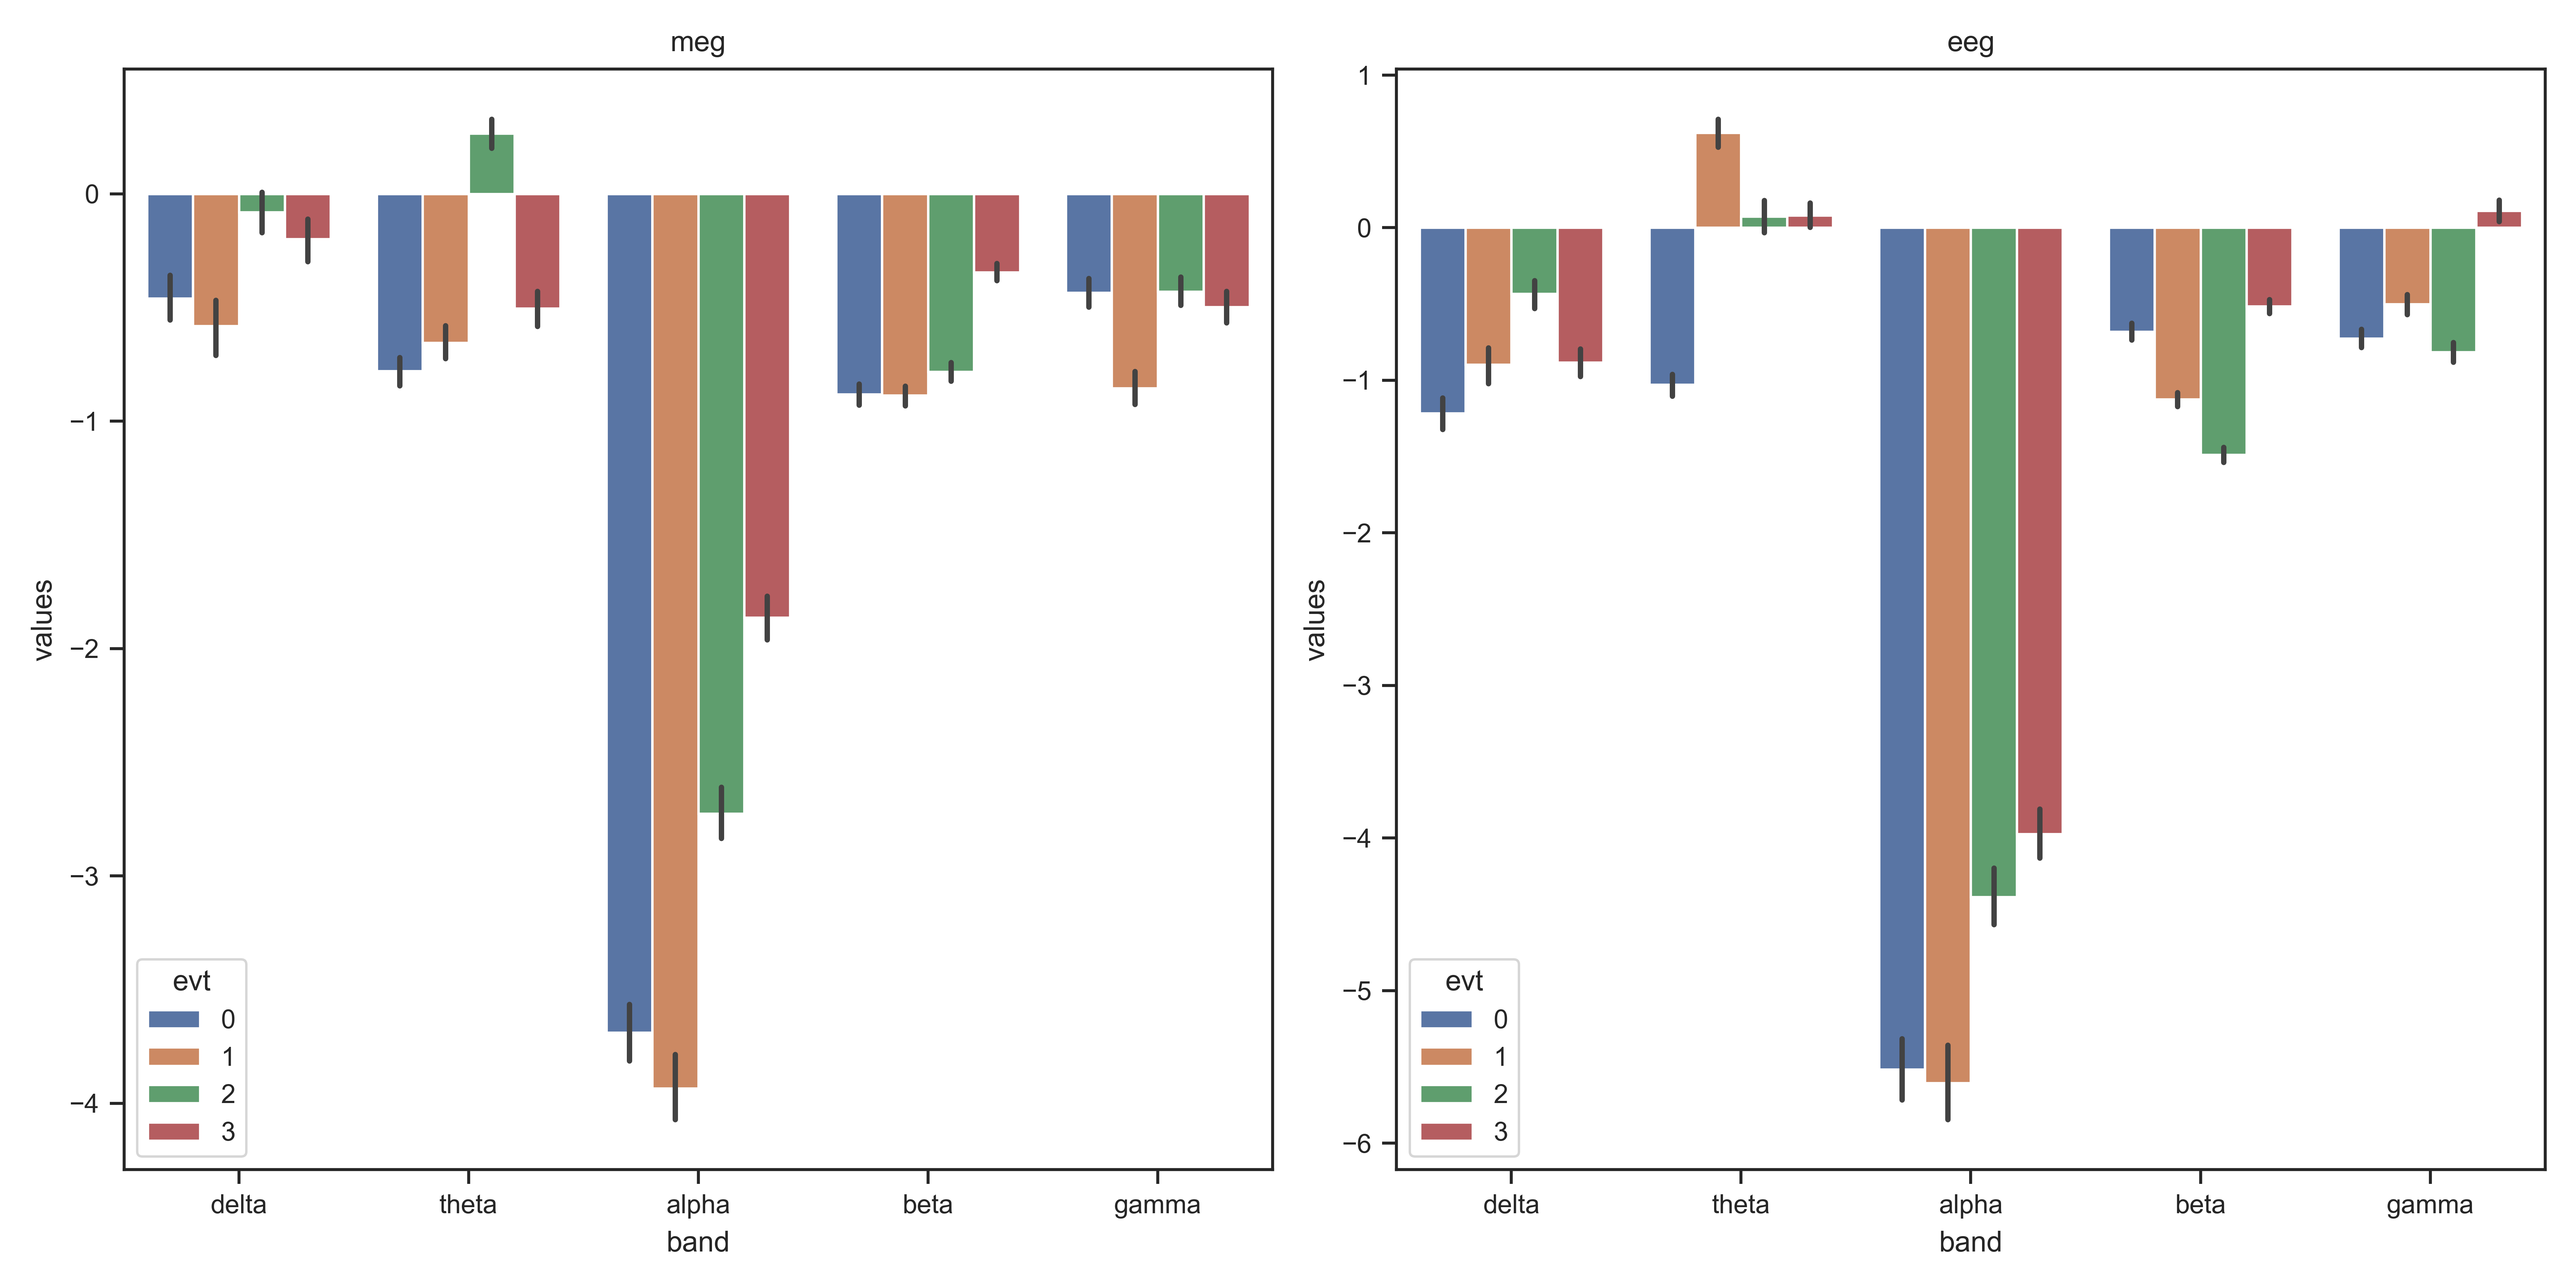
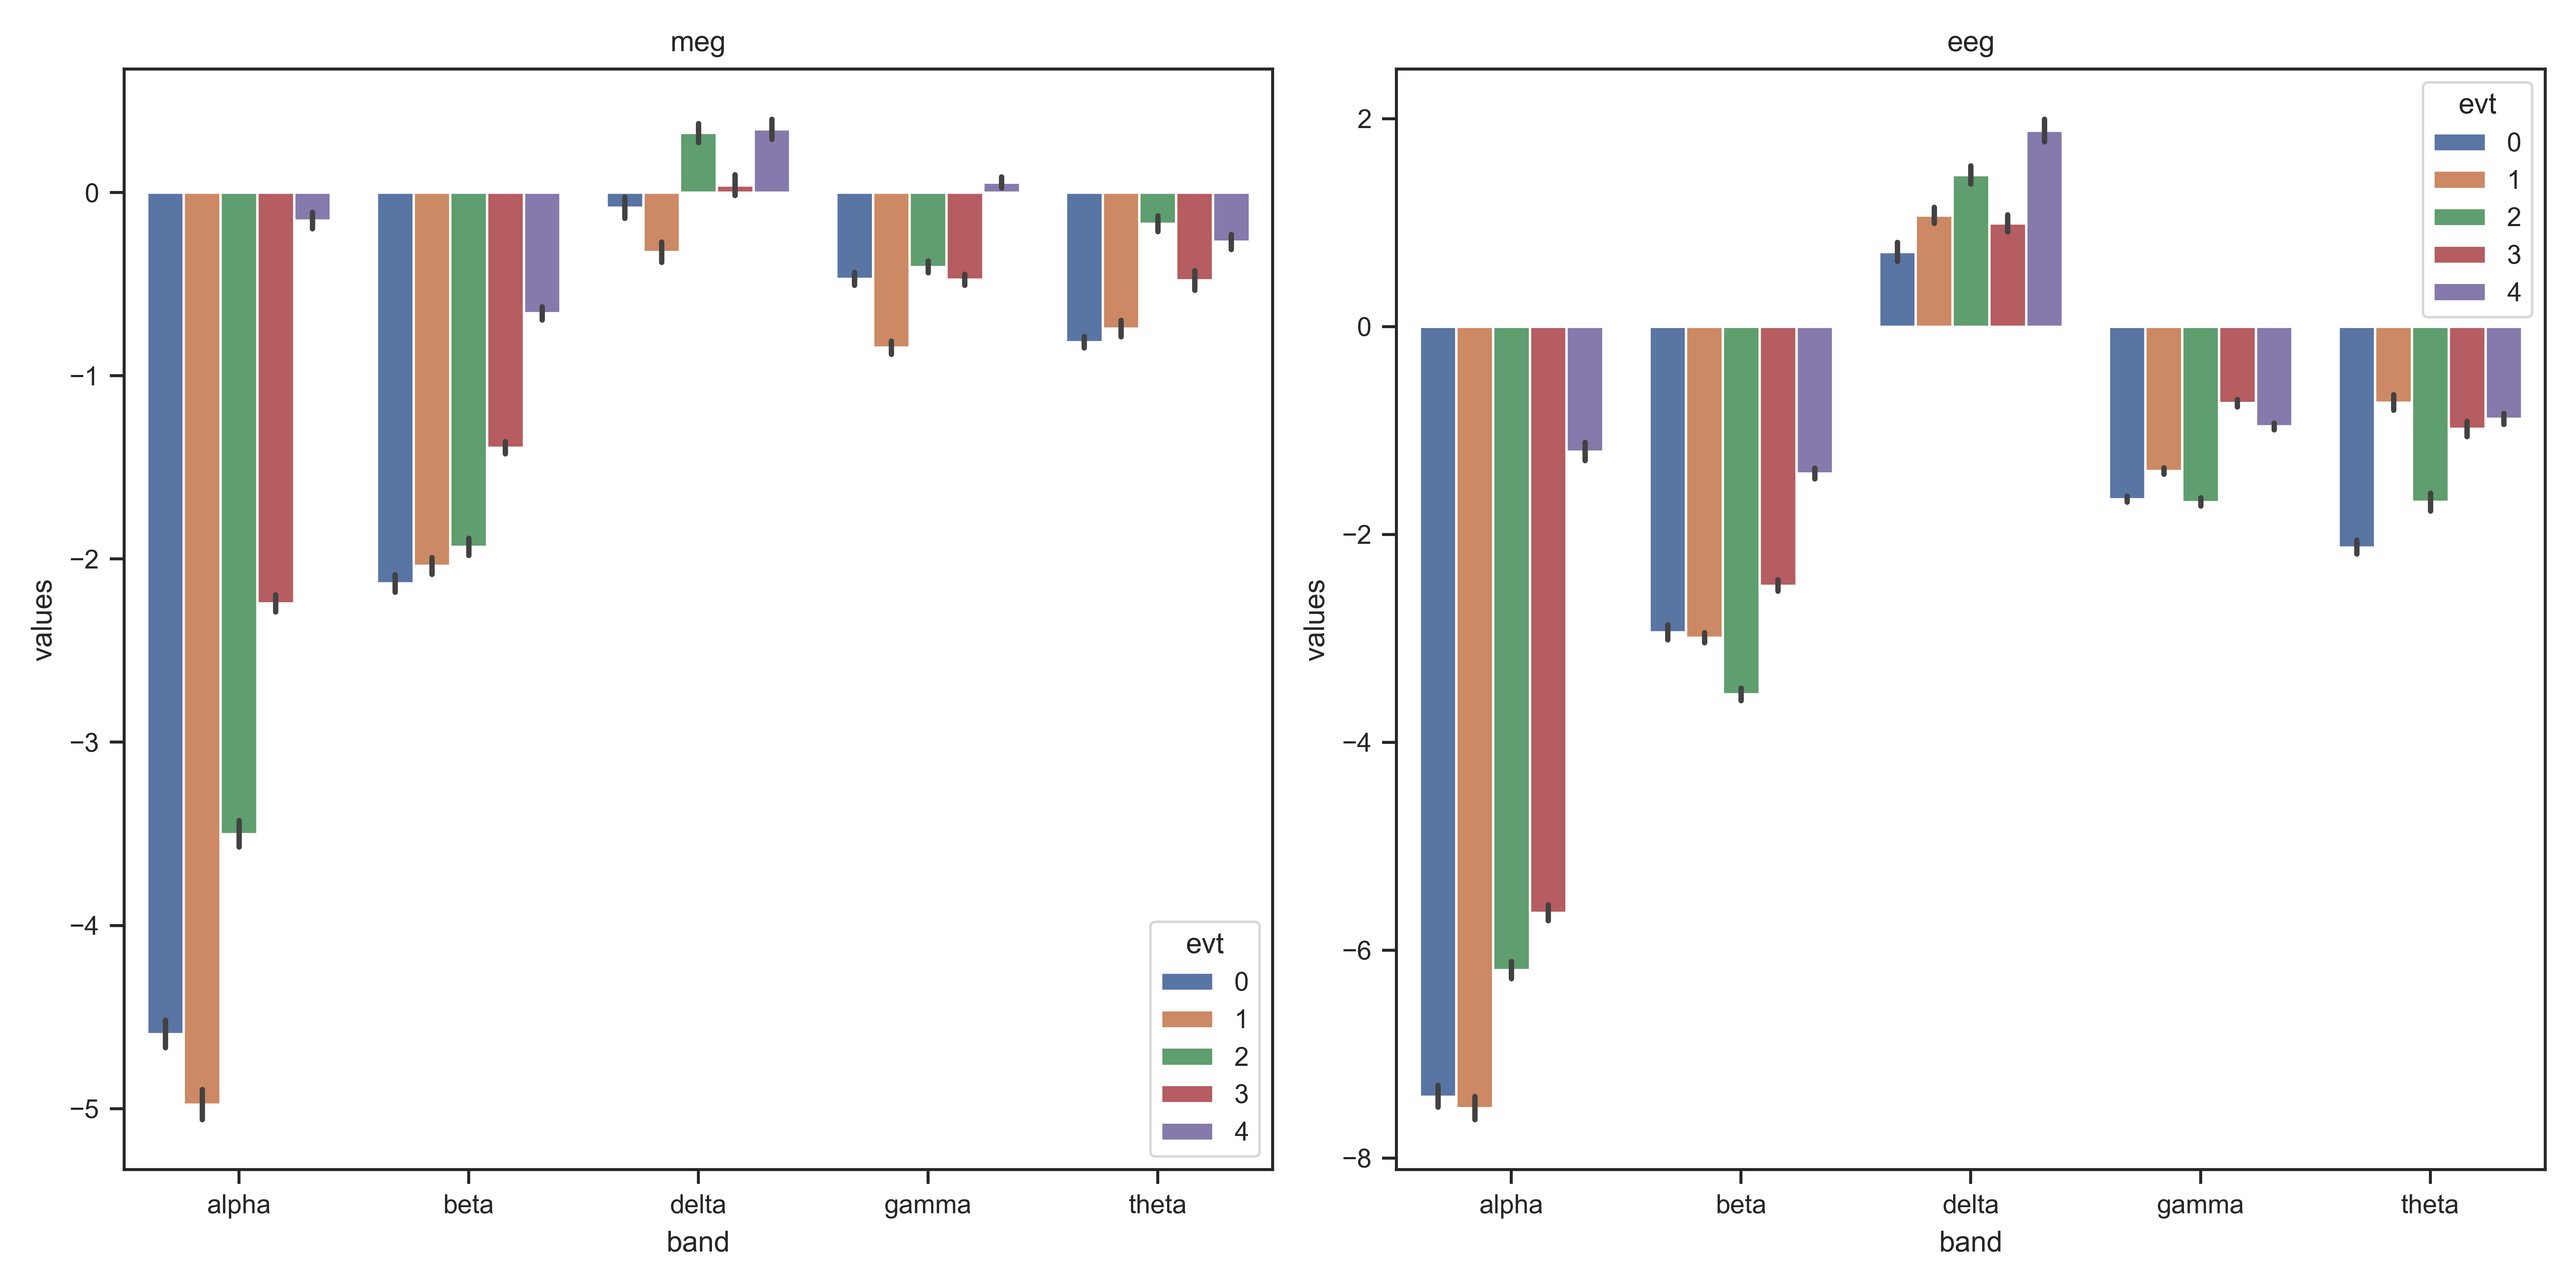
Refactor code structure for improved readability and maintainability

diff --git a/main.py b/main.py
@@ -18,6 +18,9 @@ Functions:
 
 # %% ---- 2026-01-18 ------------------------
 # Requirements and constants
+from itertools import combinations
+from scipy import stats
+import numpy as np
 import joblib
 import pandas as pd
 import seaborn as sns
@@ -31,7 +34,7 @@ from itertools import product
 DATA_DIR = Path('./data/erd.exampleChannels.detail')
 MODES = ['meg', 'eeg']
 CHANNELS = ['0-C3', '0-MLC42']
-EVENTS = ['0', '1', '2', '3']
+EVENTS = ['0', '1', '2', '3', '4']
 
 OUTPUT_DIR = Path('img')
 OUTPUT_DIR.mkdir(parents=True, exist_ok=True)
@@ -42,8 +45,8 @@ OUTPUT_DIR.mkdir(parents=True, exist_ok=True)
 
 # %% ---- 2026-01-18 ------------------------
 # Play ground
-mat0_meg = joblib.load(DATA_DIR / f'meg-4-0-MLC42.dump')['mat']
-mat0_eeg = joblib.load(DATA_DIR / f'eeg-4-0-C3.dump')['mat']
+# mat0_meg = joblib.load(DATA_DIR / f'meg-4-0-MLC42.dump')['mat']
+# mat0_eeg = joblib.load(DATA_DIR / f'eeg-4-0-C3.dump')['mat']
 
 dfs = []
 for evt, mode, channel in tqdm(product(EVENTS, MODES, CHANNELS)):
@@ -55,12 +58,12 @@ for evt, mode, channel in tqdm(product(EVENTS, MODES, CHANNELS)):
     freqs = obj['freqs']
     times = obj['times']
 
-    if mode == 'meg':
-        mat -= mat0_meg
-    elif mode == 'eeg':
-        mat -= mat0_eeg
-    else:
-        raise ValueError(f'Incorrect {mode=}')
+    # if mode == 'meg':
+    #     mat -= mat0_meg
+    # elif mode == 'eeg':
+    #     mat -= mat0_eeg
+    # else:
+    #     raise ValueError(f'Incorrect {mode=}')
 
     df = pd.DataFrame(mat, index=freqs, columns=times)
     # 使用 melt 重塑为三列
@@ -100,6 +103,153 @@ bands = {
 table['band'] = table['freqs'].map(
     lambda f: [k for k, v in bands.items() if f >= v[0] and f <= v[1]][0])
 print(table)
+
+# %%
+idx = (
+    table
+    .groupby(["times", "mode", "evt", "band"])["values"]
+    .idxmin()
+)
+
+table = table.loc[idx].reset_index(drop=True)
+print(table)
+
+# %%
+table = table[['times', 'values', 'mode', 'evt', 'band']]
+print(table)
+
+# %%
+
+# 假设您的数据已经在df中
+# 如果还没有读取数据，请先读取：
+# df = pd.read_csv('your_data.csv')
+
+# 创建存储结果的列表
+results = []
+df = table.copy()
+
+# 按band和mode分组
+for (band, mode), group_df in df.groupby(['band', 'mode']):
+    # 按evt分组数据
+    evt_groups = {evt: group_df[group_df['evt'] == evt]['values'].values
+                  for evt in sorted(group_df['evt'].unique())}
+
+    # 获取所有时间点
+    times = sorted(group_df['times'].unique())
+
+    # 对每个时间点进行T检验
+    for time_point in times:
+        # 提取该时间点每个evt的数据
+        time_data = {}
+        for evt in EVENTS:  # evt 0-4
+            evt_time_data = group_df[(group_df['evt'] == evt) &
+                                     (group_df['times'] == time_point)]
+            time_data[evt] = evt_time_data['values'].values
+
+        # 对所有evt对进行两两比较
+        for evt1, evt2 in combinations(EVENTS, 2):
+            if len(time_data[evt1]) > 0 and len(time_data[evt2]) > 0:
+                # 进行独立样本T检验
+                t_stat, p_value = stats.ttest_ind(
+                    time_data[evt1],
+                    time_data[evt2],
+                    equal_var=False  # Welch's t-test (不假设方差齐性)
+                )
+
+                # 计算效应量 (Cohen's d)
+                mean1, mean2 = np.mean(
+                    time_data[evt1]), np.mean(time_data[evt2])
+                std1, std2 = np.std(time_data[evt1], ddof=1), np.std(
+                    time_data[evt2], ddof=1)
+                n1, n2 = len(time_data[evt1]), len(time_data[evt2])
+
+                # 合并标准差
+                pooled_std = np.sqrt(
+                    ((n1-1)*std1**2 + (n2-1)*std2**2) / (n1 + n2 - 2))
+                cohens_d = (mean1 - mean2) / \
+                    pooled_std if pooled_std != 0 else 0
+
+                # 保存结果
+                results.append({
+                    'band': band,
+                    'mode': mode,
+                    'time': time_point,
+                    'evt1': evt1,
+                    'evt2': evt2,
+                    't_statistic': t_stat,
+                    'p_value': p_value,
+                    'cohens_d': cohens_d,
+                    'mean1': mean1,
+                    'mean2': mean2,
+                    'std1': std1,
+                    'std2': std2,
+                    'n1': n1,
+                    'n2': n2
+                })
+
+# 转换为DataFrame
+results_df = pd.DataFrame(results)
+print(results_df)
+
+# %%
+significant_df = results_df[results_df['p_value'] < 0.01].copy()
+significant_df = significant_df.query(f'time>0 & time<4').copy()
+significant_df = significant_df[significant_df['band'].isin(
+    ['alpha', 'beta'])].copy()
+significant_df
+
+# %%
+# 方法1：使用seaborn的relplot（推荐，更简洁）
+fig = plt.figure(figsize=(14, 12), dpi=600)
+
+# 创建组合标签
+significant_df['comparison'] = significant_df['evt1'].astype(
+    str) + ' vs ' + significant_df['evt2'].astype(str)
+
+# 使用relplot创建网格图
+g = sns.relplot(
+    data=significant_df,
+    x='time',
+    y='comparison',
+    col='band',
+    row='mode',
+    hue='comparison',
+    kind='scatter',
+    height=4,
+    aspect=1.2,
+    facet_kws={'sharex': True, 'sharey': True}
+)
+
+# 设置标题和标签
+# g.fig.suptitle('Significant Event Comparisons (p < 0.01)',
+#                fontsize=14, fontweight='bold')
+g.set_axis_labels('Time', 'Comparison')
+g.set_titles(col_template='Band: {col_name}', row_template='Mode: {row_name}')
+
+# plt.tight_layout()
+plt.savefig(OUTPUT_DIR / 'Significant Event Comparisons.png')
+plt.show()
+
+
+# %%
+
+# 查看结果概览
+print(f"总共有 {len(results_df)} 个比较")
+print("\n按band和mode分组的比较数量:")
+print(results_df.groupby(['band', 'mode']).size())
+
+# 查看显著的比较 (p < 0.05)
+significant = results_df[results_df['p_value'] < 0.05]
+print(f"\n显著的比较数量 (p < 0.05): {len(significant)}")
+
+# 按时间和频带查看最显著的差异
+if len(significant) > 0:
+    print("\n最显著的10个差异 (按p值排序):")
+    print(significant.nsmallest(10, 'p_value')[['band', 'mode', 'time', 'evt1', 'evt2',
+                                               't_statistic', 'p_value', 'cohens_d']])
+
+# 可选：保存结果到CSV
+# results_df.to_csv('t_test_results.csv', index=False)
 
 # %% ---- 2026-01-18 ------------------------
 # Pending
